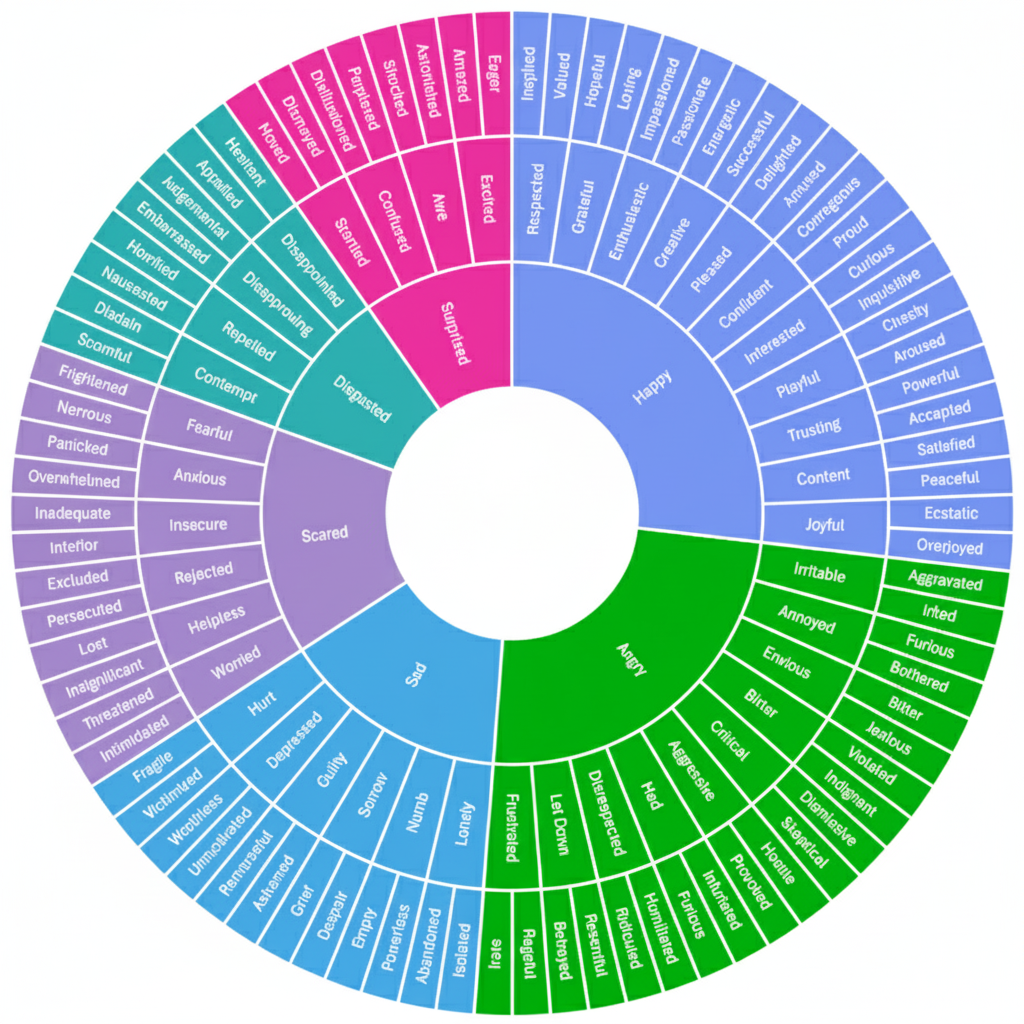
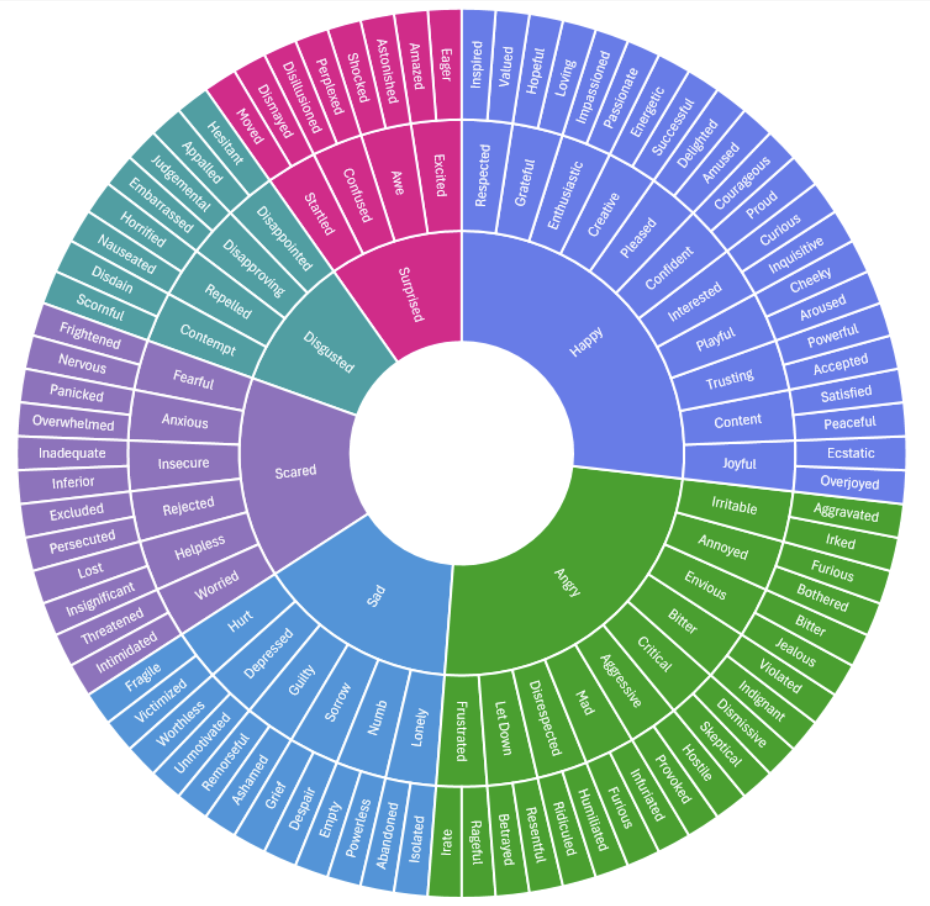
Fixed picture and Wheel.jsx

diff --git a/src/components/Wheel/Wheel.jsx b/src/components/Wheel/Wheel.jsx
@@ -55,89 +55,91 @@ const middleCircle = [
     { name: "Excited", start: 261.2, end: 270, description: "Feeling thrilled or eager." },
     ];
 
-    const outerCircle = [
-    { name: "Inspired", start: 270.00, end: 274.44, description: "Feeling mentally stimulated to create or act." },
-    { name: "Valued", start: 274.44, end: 278.89, description: "Feeling appreciated and recognized by others." },
-    { name: "Hopeful", start: 278.89, end: 283.33, description: "Feeling optimistic about what is to come." },
-    { name: "Loving", start: 283.33, end: 287.78, description: "Feeling deep affection or care for someone or something." },
-    { name: "Impassioned", start: 287.78, end: 292.22, description: "Feeling filled with strong emotion or enthusiasm." },
-    { name: "Passionate", start: 292.22, end: 296.67, description: "Feeling intense excitement or love toward something." },
-    { name: "Energetic", start: 296.67, end: 301.11, description: "Feeling full of energy and vitality." },
-    { name: "Successful", start: 301.11, end: 305.56, description: "Feeling accomplished and fulfilled in your goals." },
-    { name: "Delighted", start: 305.56, end: 310.00, description: "Feeling greatly pleased or happy." },
-    { name: "Amused", start: 310.00, end: 314.44, description: "Feeling entertained or pleasantly surprised." },
-    { name: "Courageous", start: 314.44, end: 318.89, description: "Feeling brave and ready to face challenges." },
-    { name: "Proud", start: 318.89, end: 323.33, description: "Feeling satisfaction and self-respect for achievements." },
-    { name: "Curious", start: 323.33, end: 327.78, description: "Feeling eager to know or learn something new." },
-    { name: "Inquisitive", start: 327.78, end: 332.22, description: "Feeling driven to ask questions or investigate." },
-    { name: "Cheeky", start: 332.22, end: 336.67, description: "Feeling playfully bold or mischievous." },
-    { name: "Aroused", start: 336.67, end: 341.11, description: "Feeling emotionally or physically stimulated." },
-    { name: "Powerful", start: 341.11, end: 345.56, description: "Feeling capable, influential, or strong." },
-    { name: "Accepted", start: 345.56, end: 350.00, description: "Feeling included and acknowledged by others." },
-    { name: "Satisfied", start: 350.00, end: 354.44, description: "Feeling content and fulfilled." },
-    { name: "Peaceful", start: 354.44, end: 358.89, description: "Feeling calm and serene." },
-    { name: "Ecstatic", start: 358.89, end: 3.33, description: "Feeling overwhelming joy or happiness." },
-    { name: "Overjoyed", start: 3.33, end: 7.78, description: "Feeling extremely delighted or happy." },
-    { name: "Aggravated", start: 7.78, end: 12.22, description: "Feeling annoyed or made worse by irritation." },
-    { name: "Irked", start: 12.22, end: 16.67, description: "Feeling slightly annoyed or irritated." },
-    { name: "Furious", start: 16.67, end: 21.11, description: "Feeling extremely angry or enraged." },
-    { name: "Bothered", start: 21.11, end: 25.56, description: "Feeling uneasy or disturbed by something." },
-    { name: "Bitter", start: 25.56, end: 30.00, description: "Feeling resentful or holding onto past anger." },
-    { name: "Jealous", start: 30.00, end: 34.44, description: "Feeling envious or possessive over something." },
-    { name: "Violated", start: 34.44, end: 38.89, description: "Feeling your personal space or trust was broken." },
-    { name: "Indignant", start: 38.89, end: 43.33, description: "Feeling anger or resentment toward unfairness." },
-    { name: "Dismissive", start: 43.33, end: 47.78, description: "Feeling indifferent or disregarding something." },
-    { name: "Skeptical", start: 47.78, end: 52.22, description: "Feeling doubtful or unconvinced." },
-    { name: "Hostile", start: 52.22, end: 56.67, description: "Feeling antagonistic or opposed to something." },
-    { name: "Provoked", start: 56.67, end: 61.11, description: "Feeling angered or triggered by someone’s actions." },
-    { name: "Infuriated", start: 61.11, end: 65.56, description: "Feeling furious or beyond irritated." },
-    { name: "Humiliated", start: 65.56, end: 70.00, description: "Feeling ashamed or degraded in front of others." },
-    { name: "Ridiculed", start: 70.00, end: 74.44, description: "Feeling mocked or made fun of." },
-    { name: "Resentful", start: 74.44, end: 78.89, description: "Feeling bitter about unfair treatment." },
-    { name: "Betrayed", start: 78.89, end: 83.33, description: "Feeling let down by someone trusted." },
-    { name: "Rageful", start: 83.33, end: 87.78, description: "Feeling explosive anger or fury." },
-    { name: "Irate", start: 87.78, end: 92.22, description: "Feeling extremely angry or enraged." },
-    { name: "Isolated", start: 92.22, end: 96.67, description: "Feeling alone or cut off from others." },
-    { name: "Abandoned", start: 96.67, end: 101.11, description: "Feeling deserted or left behind." },
-    { name: "Powerless", start: 101.11, end: 105.56, description: "Feeling unable to affect outcomes." },
-    { name: "Empty", start: 105.56, end: 110.00, description: "Feeling hollow or without emotion." },
-    { name: "Despair", start: 110.00, end: 114.44, description: "Feeling a total loss of hope." },
-    { name: "Grief", start: 114.44, end: 118.89, description: "Feeling deep sorrow due to loss." },
-    { name: "Ashamed", start: 118.89, end: 123.33, description: "Feeling embarrassed about your actions or self." },
-    { name: "Remorseful", start: 123.33, end: 127.78, description: "Feeling regretful about something wrong done." },
-    { name: "Unmotivated", start: 127.78, end: 132.22, description: "Feeling without energy or drive." },
-    { name: "Worthless", start: 132.22, end: 136.67, description: "Feeling of having no value or purpose." },
-    { name: "Victimized", start: 136.67, end: 141.11, description: "Feeling unfairly harmed or mistreated." },
-    { name: "Fragile", start: 141.11, end: 145.56, description: "Feeling emotionally delicate or easily hurt." },
-    { name: "Intimidated", start: 145.56, end: 150.00, description: "Feeling fearful or overpowered by someone." },
-    { name: "Threatened", start: 150.00, end: 154.44, description: "Feeling unsafe or in danger." },
-    { name: "Insignificant", start: 154.44, end: 158.89, description: "Feeling unimportant or small." },
-    { name: "Lost", start: 158.89, end: 163.33, description: "Feeling directionless or without clarity." },
-    { name: "Persecuted", start: 163.33, end: 167.78, description: "Feeling unfairly attacked or oppressed." },
-    { name: "Excluded", start: 167.78, end: 172.22, description: "Feeling left out or rejected." },
-    { name: "Inferior", start: 172.22, end: 176.67, description: "Feeling lower in status or ability." },
-    { name: "Inadequate", start: 176.67, end: 181.11, description: "Feeling not good enough or insufficient." },
-    { name: "Overwhelmed", start: 181.11, end: 185.56, description: "Feeling overcome by stress or emotion." },
-    { name: "Panicked", start: 185.56, end: 190.00, description: "Feeling sudden uncontrollable fear." },
-    { name: "Nervous", start: 190.00, end: 194.44, description: "Feeling uneasy or tense." },
-    { name: "Frightened", start: 194.44, end: 198.89, description: "Feeling afraid of danger or harm." },
-    { name: "Scornful", start: 198.89, end: 203.33, description: "Feeling contempt or derision toward others." },
-    { name: "Disdain", start: 203.33, end: 207.78, description: "Feeling strong dislike or disrespect." },
-    { name: "Nauseated", start: 207.78, end: 212.22, description: "Feeling physically or emotionally sickened." },
-    { name: "Horrified", start: 212.22, end: 216.67, description: "Feeling shocked by something terrifying." },
-    { name: "Embarrassed", start: 216.67, end: 221.11, description: "Feeling awkward or self-conscious." },
-    { name: "Judgemental", start: 221.11, end: 225.56, description: "Feeling critical of others' actions or choices." },
-    { name: "Appalled", start: 225.56, end: 230.00, description: "Feeling horrified or offended." },
-    { name: "Hesitant", start: 230.00, end: 234.44, description: "Feeling uncertain or reluctant to act." },
-    { name: "Moved", start: 234.44, end: 238.89, description: "Feeling emotionally touched or stirred." },
-    { name: "Dismayed", start: 238.89, end: 243.33, description: "Feeling disappointed or distressed." },
-    { name: "Disillusioned", start: 243.33, end: 247.78, description: "Feeling let down by false beliefs or hopes." },
-    { name: "Perplexed", start: 247.78, end: 252.22, description: "Feeling confused or puzzled." },
-    { name: "Shocked", start: 252.22, end: 256.67, description: "Feeling stunned or surprised by something unexpected." },
-    { name: "Astonished", start: 256.67, end: 261.11, description: "Feeling amazed or taken aback." },
-    { name: "Amazed", start: 261.11, end: 265.56, description: "Feeling wonder or admiration for something." },
-    { name: "Eager", start: 265.56, end: 270.00, description: "Feeling keen anticipation or excitement." },
+const outerCircle = [
+    { name: "Inspired", start: 270.00, end: 274.39, description: "Feeling mentally stimulated to create or act." },
+    { name: "Valued", start: 274.39, end: 278.78, description: "Feeling appreciated and recognized by others." },
+    { name: "Hopeful", start: 278.78, end: 283.17, description: "Feeling optimistic about what is to come." },
+    { name: "Loving", start: 283.17, end: 287.56, description: "Feeling deep affection or care for someone or something." },
+    { name: "Impassioned", start: 287.56, end: 291.95, description: "Feeling filled with strong emotion or enthusiasm." },
+    { name: "Passionate", start: 291.95, end: 296.34, description: "Feeling intense excitement or love toward something." },
+    { name: "Energetic", start: 296.34, end: 300.73, description: "Feeling full of energy and vitality." },
+    { name: "Successful", start: 300.73, end: 305.12, description: "Feeling accomplished and fulfilled in your goals." },
+    { name: "Delighted", start: 305.12, end: 309.51, description: "Feeling greatly pleased or happy." },
+    { name: "Amused", start: 309.51, end: 313.90, description: "Feeling entertained or pleasantly surprised." },
+    { name: "Courageous", start: 313.90, end: 318.29, description: "Feeling brave and ready to face challenges." },
+    { name: "Proud", start: 318.29, end: 322.68, description: "Feeling satisfaction and self-respect for achievements." },
+    { name: "Curious", start: 322.68, end: 327.07, description: "Feeling eager to know or learn something new." },
+    { name: "Inquisitive", start: 327.07, end: 331.46, description: "Feeling driven to ask questions or investigate." },
+    { name: "Cheeky", start: 331.46, end: 335.85, description: "Feeling playfully bold or mischievous." },
+    { name: "Aroused", start: 335.85, end: 340.24, description: "Feeling emotionally or physically stimulated." },
+    { name: "Powerful", start: 340.24, end: 344.63, description: "Feeling capable, influential, or strong." },
+    { name: "Accepted", start: 344.63, end: 349.02, description: "Feeling included and acknowledged by others." },
+    { name: "Satisfied", start: 349.02, end: 353.41, description: "Feeling content and fulfilled." },
+    { name: "Peaceful", start: 353.41, end: 357.80, description: "Feeling calm and serene." },
+    { name: "Ecstatic", start: 357.80, end: 2.19, description: "Feeling overwhelming joy or happiness." },
+    { name: "Overjoyed", start: 2.19, end: 6.58, description: "Feeling extremely delighted or happy." },
+    { name: "Aggravated", start: 6.58, end: 10.97, description: "Feeling annoyed or made worse by irritation." },
+    { name: "Irked", start: 10.97, end: 15.36, description: "Feeling slightly annoyed or irritated." },
+    { name: "Annoyed - Furious", start: 15.36, end: 19.75, description: "Feeling increasingly irritated or angry." },
+    { name: "Bothered", start: 19.75, end: 24.14, description: "Feeling uneasy or disturbed by something." },
+    { name: "Bitter", start: 24.14, end: 28.53, description: "Feeling resentful or holding onto past anger." },
+    { name: "Jealous", start: 28.53, end: 32.92, description: "Feeling envious or possessive over something." },
+    { name: "Violated", start: 32.92, end: 37.31, description: "Feeling your personal space or trust was broken." },
+    { name: "Indignant", start: 37.31, end: 41.70, description: "Feeling anger or resentment toward unfairness." },
+    { name: "Dismissive", start: 41.70, end: 46.09, description: "Feeling indifferent or disregarding something." },
+    { name: "Skeptical", start: 46.09, end: 50.48, description: "Feeling doubtful or unconvinced." },
+    { name: "Hostile", start: 50.48, end: 54.87, description: "Feeling antagonistic or opposed to something." },
+    { name: "Provoked", start: 54.87, end: 59.26, description: "Feeling angered or triggered by someone's actions." },
+    { name: "Infuriated", start: 59.26, end: 63.65, description: "Feeling furious or beyond irritated." },
+    { name: "Mad - Furious", start: 63.65, end: 68.04, description: "Feeling explosively angry or enraged." },
+    { name: "Humiliated", start: 68.04, end: 72.43, description: "Feeling ashamed or degraded in front of others." },
+    { name: "Ridiculed", start: 72.43, end: 76.82, description: "Feeling mocked or made fun of." },
+    { name: "Resentful", start: 76.82, end: 81.21, description: "Feeling bitter about unfair treatment." },
+    { name: "Betrayed", start: 81.21, end: 85.60, description: "Feeling let down by someone trusted." },
+    { name: "Rageful", start: 85.60, end: 89.99, description: "Feeling explosive anger or fury." },
+    { name: "Irate", start: 89.99, end: 94.38, description: "Feeling extremely angry or enraged." },
+    { name: "Isolated", start: 94.38, end: 98.77, description: "Feeling alone or cut off from others." },
+    { name: "Abandoned", start: 98.77, end: 103.16, description: "Feeling deserted or left behind." },
+    { name: "Powerless", start: 103.16, end: 107.55, description: "Feeling unable to affect outcomes." },
+    { name: "Empty", start: 107.55, end: 111.94, description: "Feeling hollow or without emotion." },
+    { name: "Despair", start: 111.94, end: 116.33, description: "Feeling a total loss of hope." },
+    { name: "Grief", start: 116.33, end: 120.72, description: "Feeling deep sorrow due to loss." },
+    { name: "Ashamed", start: 120.72, end: 125.11, description: "Feeling embarrassed about your actions or self." },
+    { name: "Remorseful", start: 125.11, end: 129.50, description: "Feeling regretful about something wrong done." },
+    { name: "Unmotivated", start: 129.50, end: 133.89, description: "Feeling without energy or drive." },
+    { name: "Worthless", start: 133.89, end: 138.28, description: "Feeling of having no value or purpose." },
+    { name: "Victimized", start: 138.28, end: 142.67, description: "Feeling unfairly harmed or mistreated." },
+    { name: "Fragile", start: 142.67, end: 147.06, description: "Feeling emotionally delicate or easily hurt." },
+    { name: "Intimidated", start: 147.06, end: 151.45, description: "Feeling fearful or overpowered by someone." },
+    { name: "Threatened", start: 151.45, end: 155.84, description: "Feeling unsafe or in danger." },
+    { name: "Insignificant", start: 155.84, end: 160.23, description: "Feeling unimportant or small." },
+    { name: "Lost", start: 160.23, end: 164.62, description: "Feeling directionless or without clarity." },
+    { name: "Persecuted", start: 164.62, end: 169.01, description: "Feeling unfairly attacked or oppressed." },
+    { name: "Excluded", start: 169.01, end: 173.40, description: "Feeling left out or rejected." },
+    { name: "Inferior", start: 173.40, end: 177.79, description: "Feeling lower in status or ability." },
+    { name: "Inadequate", start: 177.79, end: 182.18, description: "Feeling not good enough or insufficient." },
+    { name: "Overwhelmed", start: 182.18, end: 186.57, description: "Feeling overcome by stress or emotion." },
+    { name: "Panicked", start: 186.57, end: 190.96, description: "Feeling sudden uncontrollable fear." },
+    { name: "Nervous", start: 190.96, end: 195.35, description: "Feeling uneasy or tense." },
+    { name: "Frightened", start: 195.35, end: 199.74, description: "Feeling afraid of danger or harm." },
+    { name: "Scornful", start: 199.74, end: 204.13, description: "Feeling contempt or derision toward others." },
+    { name: "Disdain", start: 204.13, end: 208.52, description: "Feeling strong dislike or disrespect." },
+    { name: "Nauseated", start: 208.52, end: 212.91, description: "Feeling physically or emotionally sickened." },
+    { name: "Horrified", start: 212.91, end: 217.30, description: "Feeling shocked by something terrifying." },
+    { name: "Embarrassed", start: 217.30, end: 221.69, description: "Feeling awkward or self-conscious." },
+    { name: "Judgemental", start: 221.69, end: 226.08, description: "Feeling critical of others' actions or choices." },
+    { name: "Appalled", start: 226.08, end: 230.47, description: "Feeling horrified or offended." },
+    { name: "Hesitant", start: 230.47, end: 234.86, description: "Feeling uncertain or reluctant to act." },
+    { name: "Moved", start: 234.86, end: 239.25, description: "Feeling emotionally touched or stirred." },
+    { name: "Dismayed", start: 239.25, end: 243.64, description: "Feeling disappointed or distressed." },
+    { name: "Disillusioned", start: 243.64, end: 248.03, description: "Feeling let down by false beliefs or hopes." },
+    { name: "Perplexed", start: 248.03, end: 252.42, description: "Feeling confused or puzzled." },
+    { name: "Shocked", start: 252.42, end: 256.81, description: "Feeling stunned or surprised by something unexpected." },
+    { name: "Astonished", start: 256.81, end: 261.20, description: "Feeling amazed or taken aback." },
+    { name: "Amazed", start: 261.20, end: 265.59, description: "Feeling wonder or admiration for something." },
+    { name: "Eager", start: 265.59, end: 270.00, description: "Feeling keen anticipation or excitement." },
 ];
+
 
 const Wheel = () => {
     const imgRef = useRef(null);
